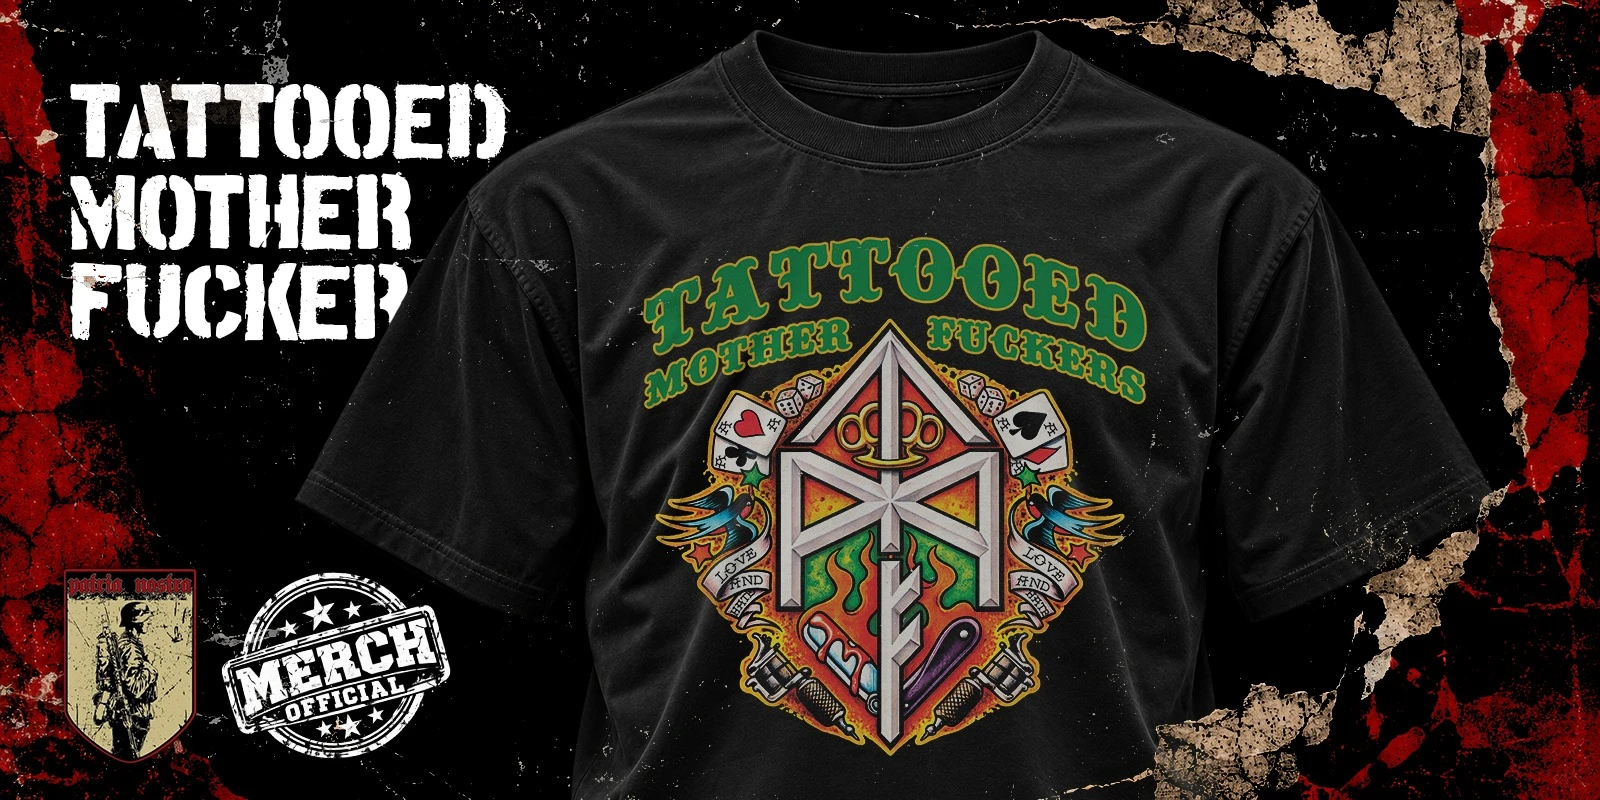
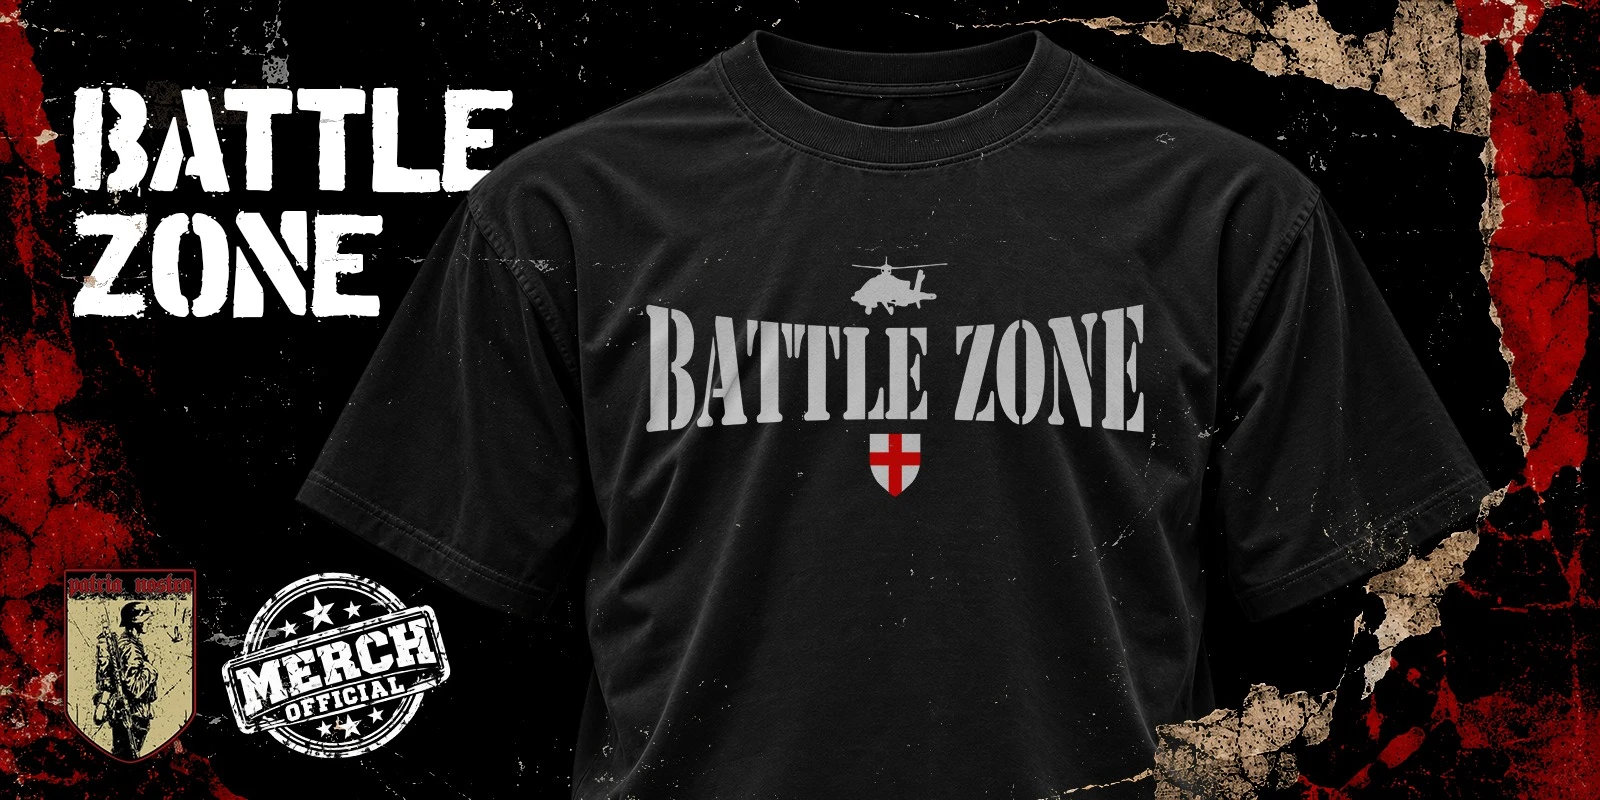
fix(collabs): corregir asociacion de imagenes y ordenar colaboraciones de izquierda a derecha con enlace a etiquetas

Changed region(s): [[0.375, 0.2812, 0.7188, 0.9375], [0.0312, 0.0938, 0.3438, 0.4375]]

diff --git a/src/components/Collaborations.jsx b/src/components/Collaborations.jsx
@@ -4,6 +4,13 @@ import { ChevronLeft, ChevronRight } from 'lucide-react';
 
 const collabCards = [
   { 
+    id: 'tattoo-motherfuckers', 
+    image: '/collaborations/tattoo-motherfuckers.webp', 
+    alt: 'Tattoo Motherfuckers Merch Oficial x Patria Nostra', 
+    title: 'TATTOO MOTHERFUCKERS',
+    query: 'TATTOO MOTHERFUCKERS' 
+  },
+  { 
     id: 'battle-zone', 
     image: '/collaborations/battle-zone.webp', 
     alt: 'Battle Zone Merch Oficial x Patria Nostra', 
@@ -15,28 +22,7 @@ const collabCards = [
     image: '/collaborations/hobbit-italia.webp', 
     alt: 'Hobbit Italia Merch Oficial x Patria Nostra', 
     title: 'HOBBIT ITALIA',
-    query: 'HOBBIT' 
-  },
-  { 
-    id: 'tmf', 
-    image: '/collaborations/tmf.webp', 
-    alt: 'Tattooed Mother Fucker Merch Oficial x Patria Nostra', 
-    title: 'TATTOOED MOTHER FUCKER',
-    query: 'TATTOOED' 
-  },
-  { 
-    id: 'brassic-usa', 
-    image: '/collaborations/brassic-usa.webp', 
-    alt: 'Brassic USA Merch Oficial x Patria Nostra', 
-    title: 'BRASSIC USA',
-    query: 'BRASSIC' 
-  },
-  { 
-    id: 'total-annihilation', 
-    image: '/collaborations/total-annihilation.webp', 
-    alt: 'Total Annihilation Merch Oficial x Patria Nostra', 
-    title: 'TOTAL ANNIHILATION',
-    query: 'TOTAL ANNIHILATION' 
+    query: 'HOBBIT ITALIA' 
   },
   { 
     id: 'ahtr', 
@@ -44,6 +30,20 @@ const collabCards = [
     alt: 'AHTR Merch Oficial x Patria Nostra', 
     title: 'AHTR',
     query: 'AHTR' 
+  },
+  { 
+    id: 'brassic-usa', 
+    image: '/collaborations/brassic-usa.webp', 
+    alt: 'Brassic USA Merch Oficial x Patria Nostra', 
+    title: 'BRASSIC USA',
+    query: 'BRASSIC USA' 
+  },
+  { 
+    id: 'total-annihilation', 
+    image: '/collaborations/total-annihilation.webp', 
+    alt: 'Total Annihilation Merch Oficial x Patria Nostra', 
+    title: 'TOTAL ANNIHILATION',
+    query: 'TOTAL ANNIHILATION' 
   }
 ];
 
@@ -105,7 +105,7 @@ export const Collaborations = () => {
     <section id="colaboraciones" className="bg-black py-12 sm:py-16 border-b border-neutral-900 select-none">
       <div className="max-w-7xl mx-auto px-4 sm:px-6 lg:px-8">
         
-        {/* Section Header: Title on Left, Nav Arrows on Right (VER TODAS removed) */}
+        {/* Section Header: Title on Left, Nav Arrows on Right */}
         <div className="flex items-center justify-between mb-6 sm:mb-8 pb-3 border-b border-neutral-900">
           <div className="flex items-center gap-3">
             <span className="w-2 h-2 bg-[#C52222] inline-block"></span>
@@ -161,6 +161,9 @@ export const Collaborations = () => {
                   alt={collab.alt} 
                   loading="lazy"
                   decoding="async"
+                  onError={(e) => {
+                    e.currentTarget.onerror = null;
+                  }}
                   className="w-full h-full object-cover select-none filter contrast-105 transition-transform duration-500 group-hover:scale-105"
                 />
                 

diff --git a/src/pages/CatalogPage.jsx b/src/pages/CatalogPage.jsx
@@ -50,11 +50,38 @@ export const CatalogPage = () => {
         const prodName = (product.name || '').toUpperCase();
         const prodCat = (product.category || '').toUpperCase();
         const prodDesc = (product.description || '').toUpperCase();
+        const prodCollab = (product.collab || '').toUpperCase();
+        const prodTags = Array.isArray(product.tags)
+          ? product.tags.join(' ').toUpperCase()
+          : (typeof product.tags === 'string' ? product.tags.toUpperCase() : '');
         const target = selectedTag.toUpperCase();
-        const matchesTag = prodBadge.includes(target) || 
-                           prodName.includes(target) || 
-                           prodCat.includes(target) || 
-                           prodDesc.includes(target);
+        let matchesTag = prodBadge.includes(target) || 
+                         prodName.includes(target) || 
+                         prodCat.includes(target) || 
+                         prodDesc.includes(target) ||
+                         prodCollab.includes(target) ||
+                         prodTags.includes(target);
+
+        // Alias inteligentes para las 6 colaboraciones oficiales
+        if (!matchesTag) {
+          const combined = `${prodBadge} ${prodName} ${prodDesc} ${prodTags} ${prodCollab}`;
+          if (target.includes('TATTOO') || target.includes('TMF')) {
+            matchesTag = combined.includes('TATTOO') || combined.includes('TMF');
+          } else if (target.includes('BATTLE ZONE')) {
+            matchesTag = combined.includes('BATTLE ZONE') || combined.includes('BATTLEZONE');
+          } else if (target.includes('HOBBIT')) {
+            matchesTag = combined.includes('HOBBIT');
+          } else if (target.includes('AHTR')) {
+            matchesTag = combined.includes('AHTR');
+          } else if (target.includes('BRASSIC')) {
+            matchesTag = combined.includes('BRASSIC');
+          } else if (target.includes('TOTAL ANNIHILATION')) {
+            matchesTag = combined.includes('TOTAL ANNIHILATION') || combined.includes('ANNIHILATION');
+          } else if (target.includes('ORGULLO SUR')) {
+            matchesTag = combined.includes('ORGULLO SUR') || combined.includes('ORGULLOSUR');
+          }
+        }
+
         if (!matchesTag) return false;
       }
 

diff --git a/src/components/admin/ProductEditorView.jsx b/src/components/admin/ProductEditorView.jsx
@@ -1047,14 +1047,15 @@ export const ProductEditorView = ({ productToEdit, onSave, onBack }) => {
               </span>
               <div className="flex flex-wrap gap-1.5">
                 {[
-                  'ORGULLO SUR',
-                  'KRONSTADT',
+                  'TATTOO MOTHERFUCKERS',
                   'BATTLE ZONE',
                   'HOBBIT ITALIA',
-                  'BRASSIC USA',
-                  'TATTOOED MOTHER FUCKER',
-                  'TOTAL ANNIHILATION',
                   'AHTR',
+                  'BRASSIC USA',
+                  'TOTAL ANNIHILATION',
+                  'ORGULLO SUR',
+                  'KRONSTADT',
+                  'TATTOOED MOTHER FUCKER',
                   'BASTIÓN',
                   'DISIDENCIA',
                   'EDICIÓN LIMITADA',

diff --git a/src/lib/pocketbase.js b/src/lib/pocketbase.js
@@ -273,6 +273,8 @@ export const mapPbProduct = (record) => {
     originalPrice: record.originalPrice ? Number(record.originalPrice) : null,
     category: record.category || 'Poleras',
     badge: record.badge || null,
+    tags: record.tags || [],
+    collab: record.collab || null,
     stock: calculatedStock,
     sizeStock,
     gender: record.gender || 'Unisex',
